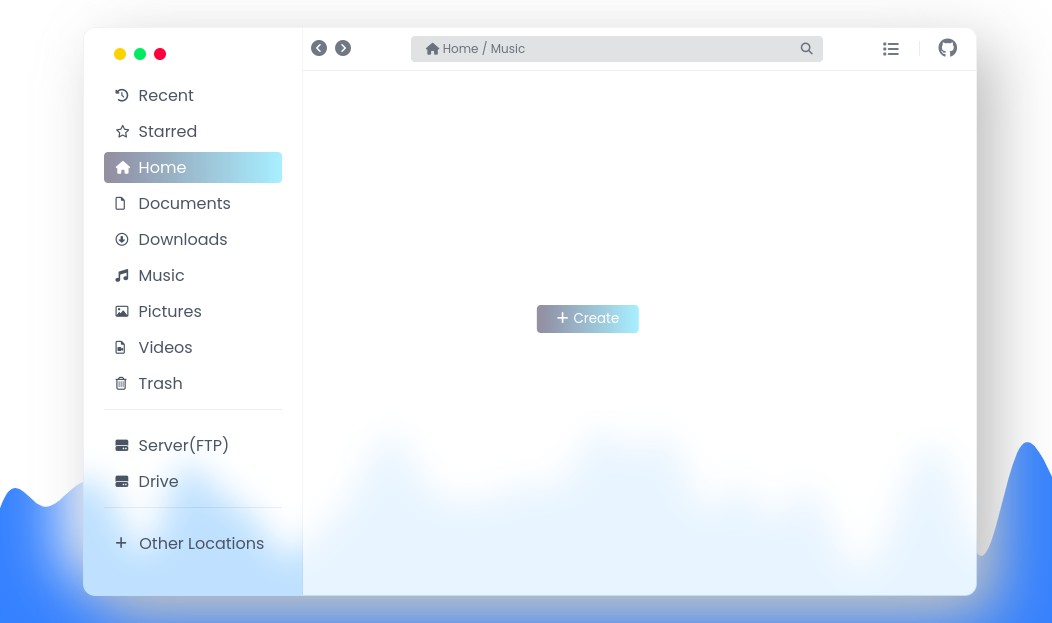
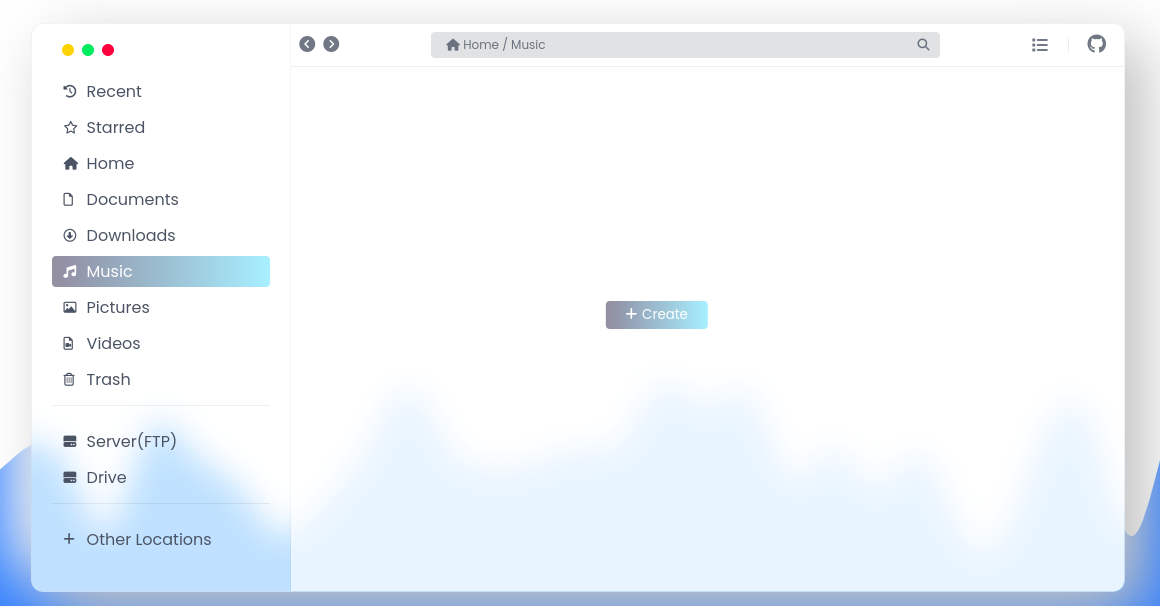
feat : fix logic in UI

diff --git a/index.html b/index.html
@@ -24,10 +24,10 @@
         <div class="menu">
           <div><i class="fa-solid fa-clock-rotate-left"></i>Recent</div>
           <div><i class="fa-regular fa-star"></i>Starred</div>
-          <div class="active"><i class="fa-solid fa-house"></i>Home</div>
+          <div><i class="fa-solid fa-house"></i>Home</div>
           <div><i class="fa-regular fa-file"></i>Documents</div>
           <div><i class="fa-regular fa-circle-down"></i>Downloads</div>
-          <div><i class="fa-solid fa-music"></i>Music</div>
+          <div class="active"><i class="fa-solid fa-music"></i>Music</div>
           <div><i class="fa-regular fa-image"></i>Pictures</div>
           <div><i class="fa-regular fa-file-video"></i>Videos</div>
           <div><i class="fa-regular fa-trash-can"></i>Trash</div>
